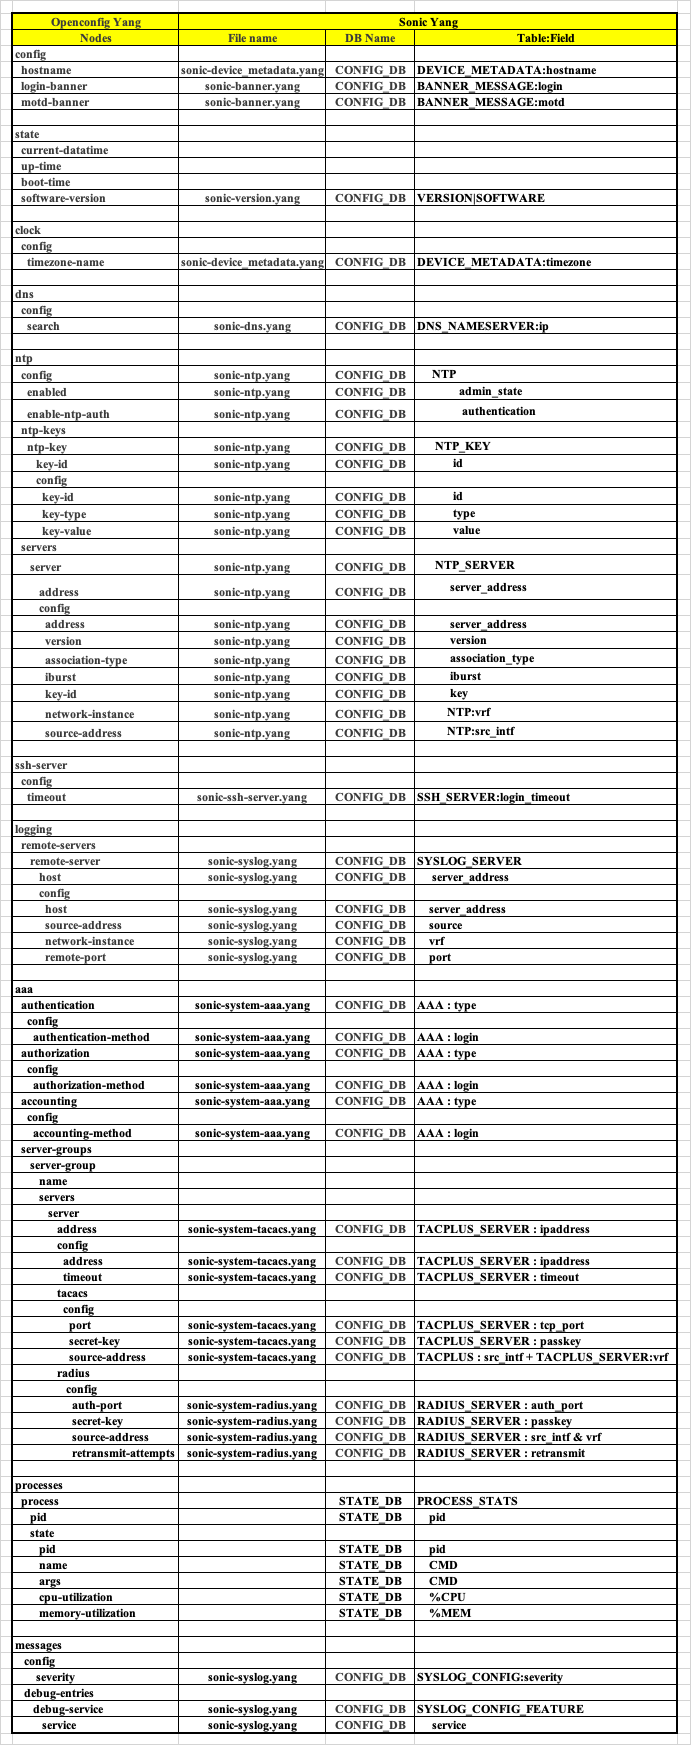
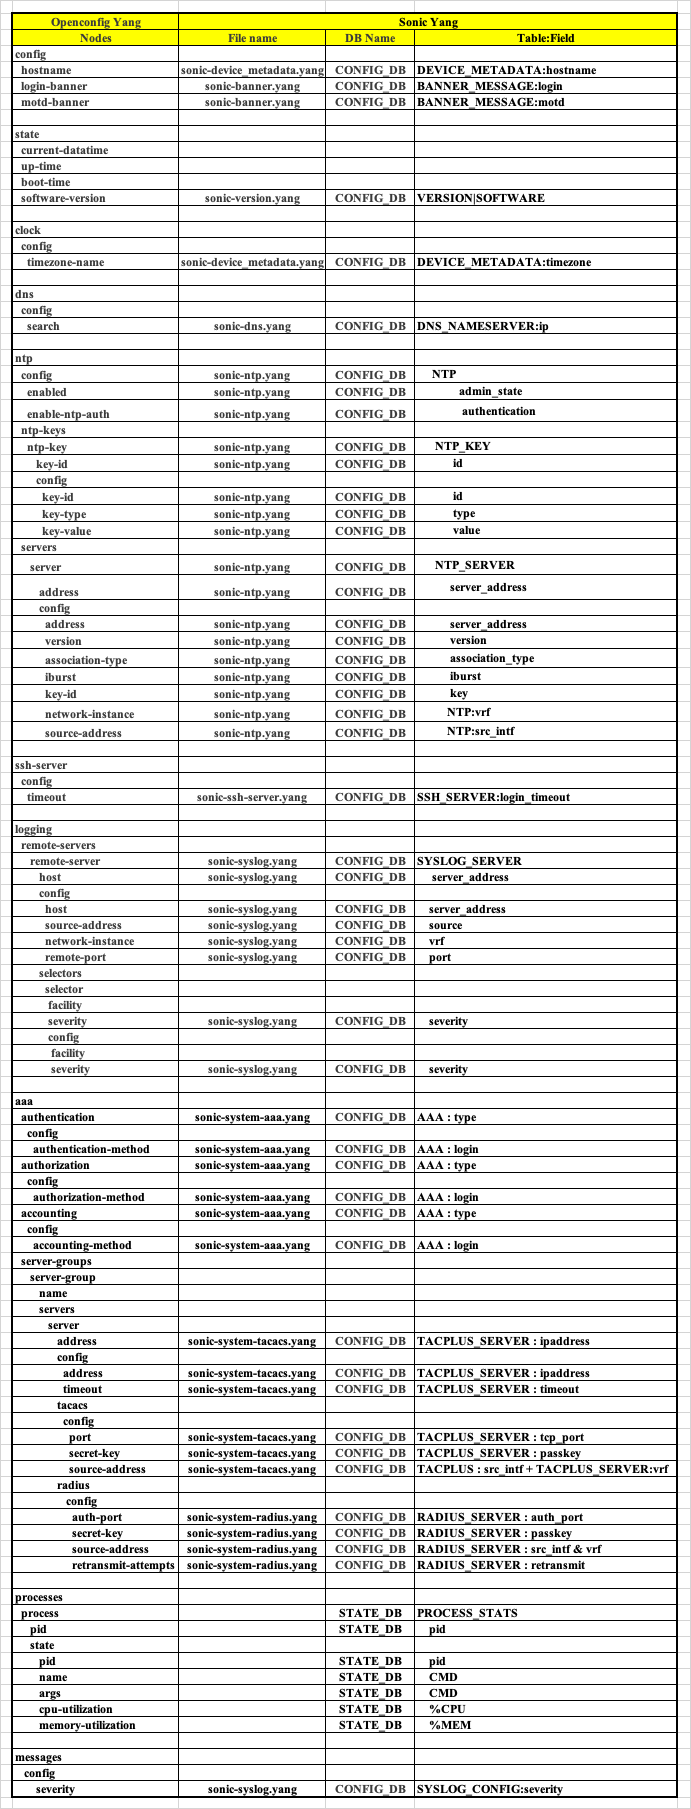
Changes to fix formating issues

Changed region(s): [[0.0, 0.0, 1.0, 1.0]]

diff --git a/doc/mgmt/OpenConfig_System.md b/doc/mgmt/OpenConfig_System.md
@@ -54,6 +54,7 @@ This document provides general information about the OpenConfig configuration/ma
 - Openconfig-system.yang version 2.1.0 - latest openconfig yang repo version is considered.
 - Supported attributes in OpenConfig YANG tree:
   ```
+module: openconfig-system
   +--rw system
      +--rw config
      |  +--rw hostname?       oc-inet:domain-name
@@ -110,6 +111,13 @@ This document provides general information about the OpenConfig configuration/ma
      |  |     |  +--rw source-address?     oc-inet:ip-address
      |  |     |  +--rw network-instance?   oc-ni:network-instance-ref
      |  |     |  +--rw remote-port?        oc-inet:port-number
+     |  |     +--rw selectors
+     |  |        +--rw selector* [facility severity]
+     |  |           +--rw facility    -> ../config/facility
+     |  |           +--rw severity    -> ../config/severity
+     |  |           +--rw config
+     |  |           |  +--rw facility?   identityref
+     |  |           |  +--rw severity?   syslog-severity
      +--rw processes
      |  +--ro process* [pid]
      |     +--ro pid      -> ../state/pid
@@ -122,12 +130,6 @@ This document provides general information about the OpenConfig configuration/ma
      +--rw messages
      |  +--rw config
      |  |  +--rw severity?   oc-log:syslog-severity
-     |  +--rw debug-entries
-     |     +--rw debug-service* [service]
-     |        +--rw service    -> ../config/service
-     |        +--rw config
-     |        |  +--rw service?   identityref
-     |        |  +--rw enabled?   boolean
      +--rw ssh-server
      |  +--rw config
      |  |  +--rw timeout?            uint16
@@ -159,7 +161,6 @@ This document provides general information about the OpenConfig configuration/ma
      |        |  +--rw key-id?      ->    ../../../ntp-keys/ntp-key/key-id
      |        |  +--rw network-instance?   oc-ni:network-instance-ref
      |        |  +--rw source-address?     oc-inet:ip-address
-
   ```
 
 # Definition/Abbreviation
@@ -219,7 +220,7 @@ This HLD design is in line with the [https://github.com/sonic-net/SONiC/blob/mas
 ## 3.2 DB Changes
 ### 3.2.1 CONFIG DB
 There are no changes to CONFIG DB schema definition.  
-For software-version, new table will be added, namely VERSION|SOFTWARE.
+For software-version, new table will be added, namely VERSIONS|SOFTWARE.
 
 ### 3.2.2 APP DB
 There are no changes to APP DB schema definition.
@@ -235,16 +236,16 @@ There are no changes to COUNTER DB schema definition.
 
 ## 3.3 User Interface
 ### 3.3.1 Data Models
-Openconfig-system.yang (2.1.0) and its submodules will be used as user interfacing models.  
-We are updating openconfig-system yang version (0.7.0) in sonic with latest available openconfig version (2.1.0).  
+Openconfig-system.yang (revision 2.1.0) and its submodules will be used as user interfacing models.  
+We are updating openconfig-system yang version (0.7.0) in sonic with latest available openconfig version (revision 2.1.0), to have all the latest changes from community.  
 Community PR [https://github.com/sonic-net/sonic-mgmt-common/pull/147]  
    * In this PR openconfig-system.yang and its submodules are updated to latest version available
-   * Reference to openconfig-network-instance module is commented, as this module is yet to be supported in sonic
+   * Reference to openconfig-network-instance model is commented, as this module is yet to be supported in SONiC
 
-Main changes among these to openconfig versions are:
+Main changes in the latest openconfig versions are:
  * Feature wise major changes -
-    * system/state -> uptime, software-version, last-configuration-timestamp nodes are added.
-    * ntp -> source-address moved to per server list from global container. Also network-instance is included per server.
+    * system/state -> up-time, software-version, last-configuration-timestamp nodes are added.
+    * ntp -> source-address moved to per server list from global container. Also network-instance is included per server. NTP Key reference is added in server.
     * grpc-server -> Restructured completely, multiple server provision is added.
     * logging -> For remote-server, network-instance support is added. Files & VTY containers are added newly.
     * memory -> used and free leaves are added.
@@ -286,7 +287,6 @@ gnmic -a <ip:port> -u <user> -p <passwd> get --path "/openconfig-system:system"
     "values": {
       "openconfig-system:system": {
           "state": {
-            "hostname": "mytest-hostname"
             "boot-time": "1712672712",
             "current-datetime": "2024-04-09T14:32:40Z+00:00"
           }
